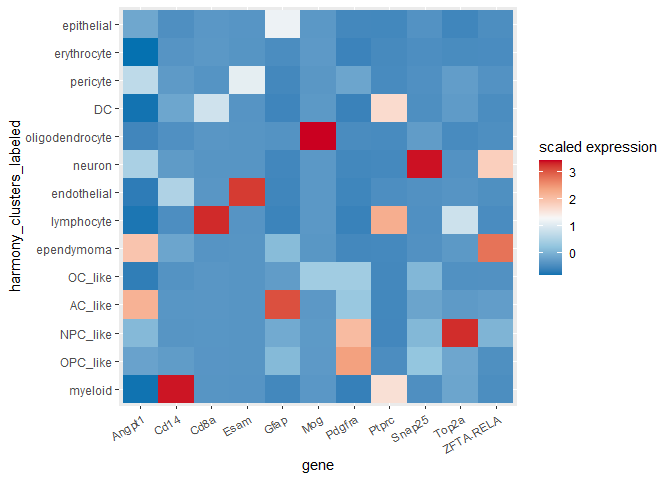
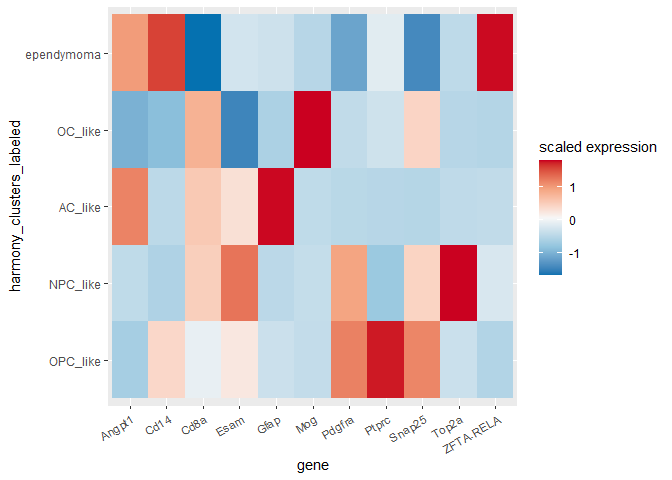
Updates

diff --git a/README.md b/README.md
@@ -24,14 +24,14 @@ This is a working document -- updates to code can be pushed in real time for eas
 ### UMAP of clusters plus UMAP of tumors
 ![](README_files/figure-html/umap_labeled-1.png)<!-- -->
 
-### UMAP of clusters by tumor type
+### UMAP of clusters by tumor type - supplemental plus frequency plot
 ![](README_files/figure-html/umap_by_tumor-1.png)<!-- -->
 
 ### UMAP plots demonstrating expression
 Gfap is a marker used by [Filbin *et al*](https://doi.org/10.1038/s41588-022-01236-3) for AC-like tumor cells, Mog for oligodendrocytes.
 ![](README_files/figure-html/umap_plots-1.png)<!-- -->
 
-##### Alternate color scheme
+##### Alternate color scheme - use FeaturePlot color scheme
 ![](README_files/figure-html/umap_plots_alt-1.png)<!-- -->
 
 ***
@@ -63,7 +63,7 @@ Gfap is a marker used by [Filbin *et al*](https://doi.org/10.1038/s41588-022-012
 ### Tumor cells only
 
 
-### Adding points
+### Adding points - split into tumor/non-tumor
 ![](README_files/figure-html/violin_points-1.png)<!-- -->
 
 ***
@@ -73,7 +73,7 @@ Gfap is a marker used by [Filbin *et al*](https://doi.org/10.1038/s41588-022-012
 ![](README_files/figure-html/heatmap-1.png)<!-- -->
 
 ### By cluster
-#### Scaled
+#### Scaled - restrict to just tumor clusters for main figure; can have all for supplemental
 ![](README_files/figure-html/heatmap_mean_scaled-1.png)<!-- -->
 
 #### Midpoint 0
